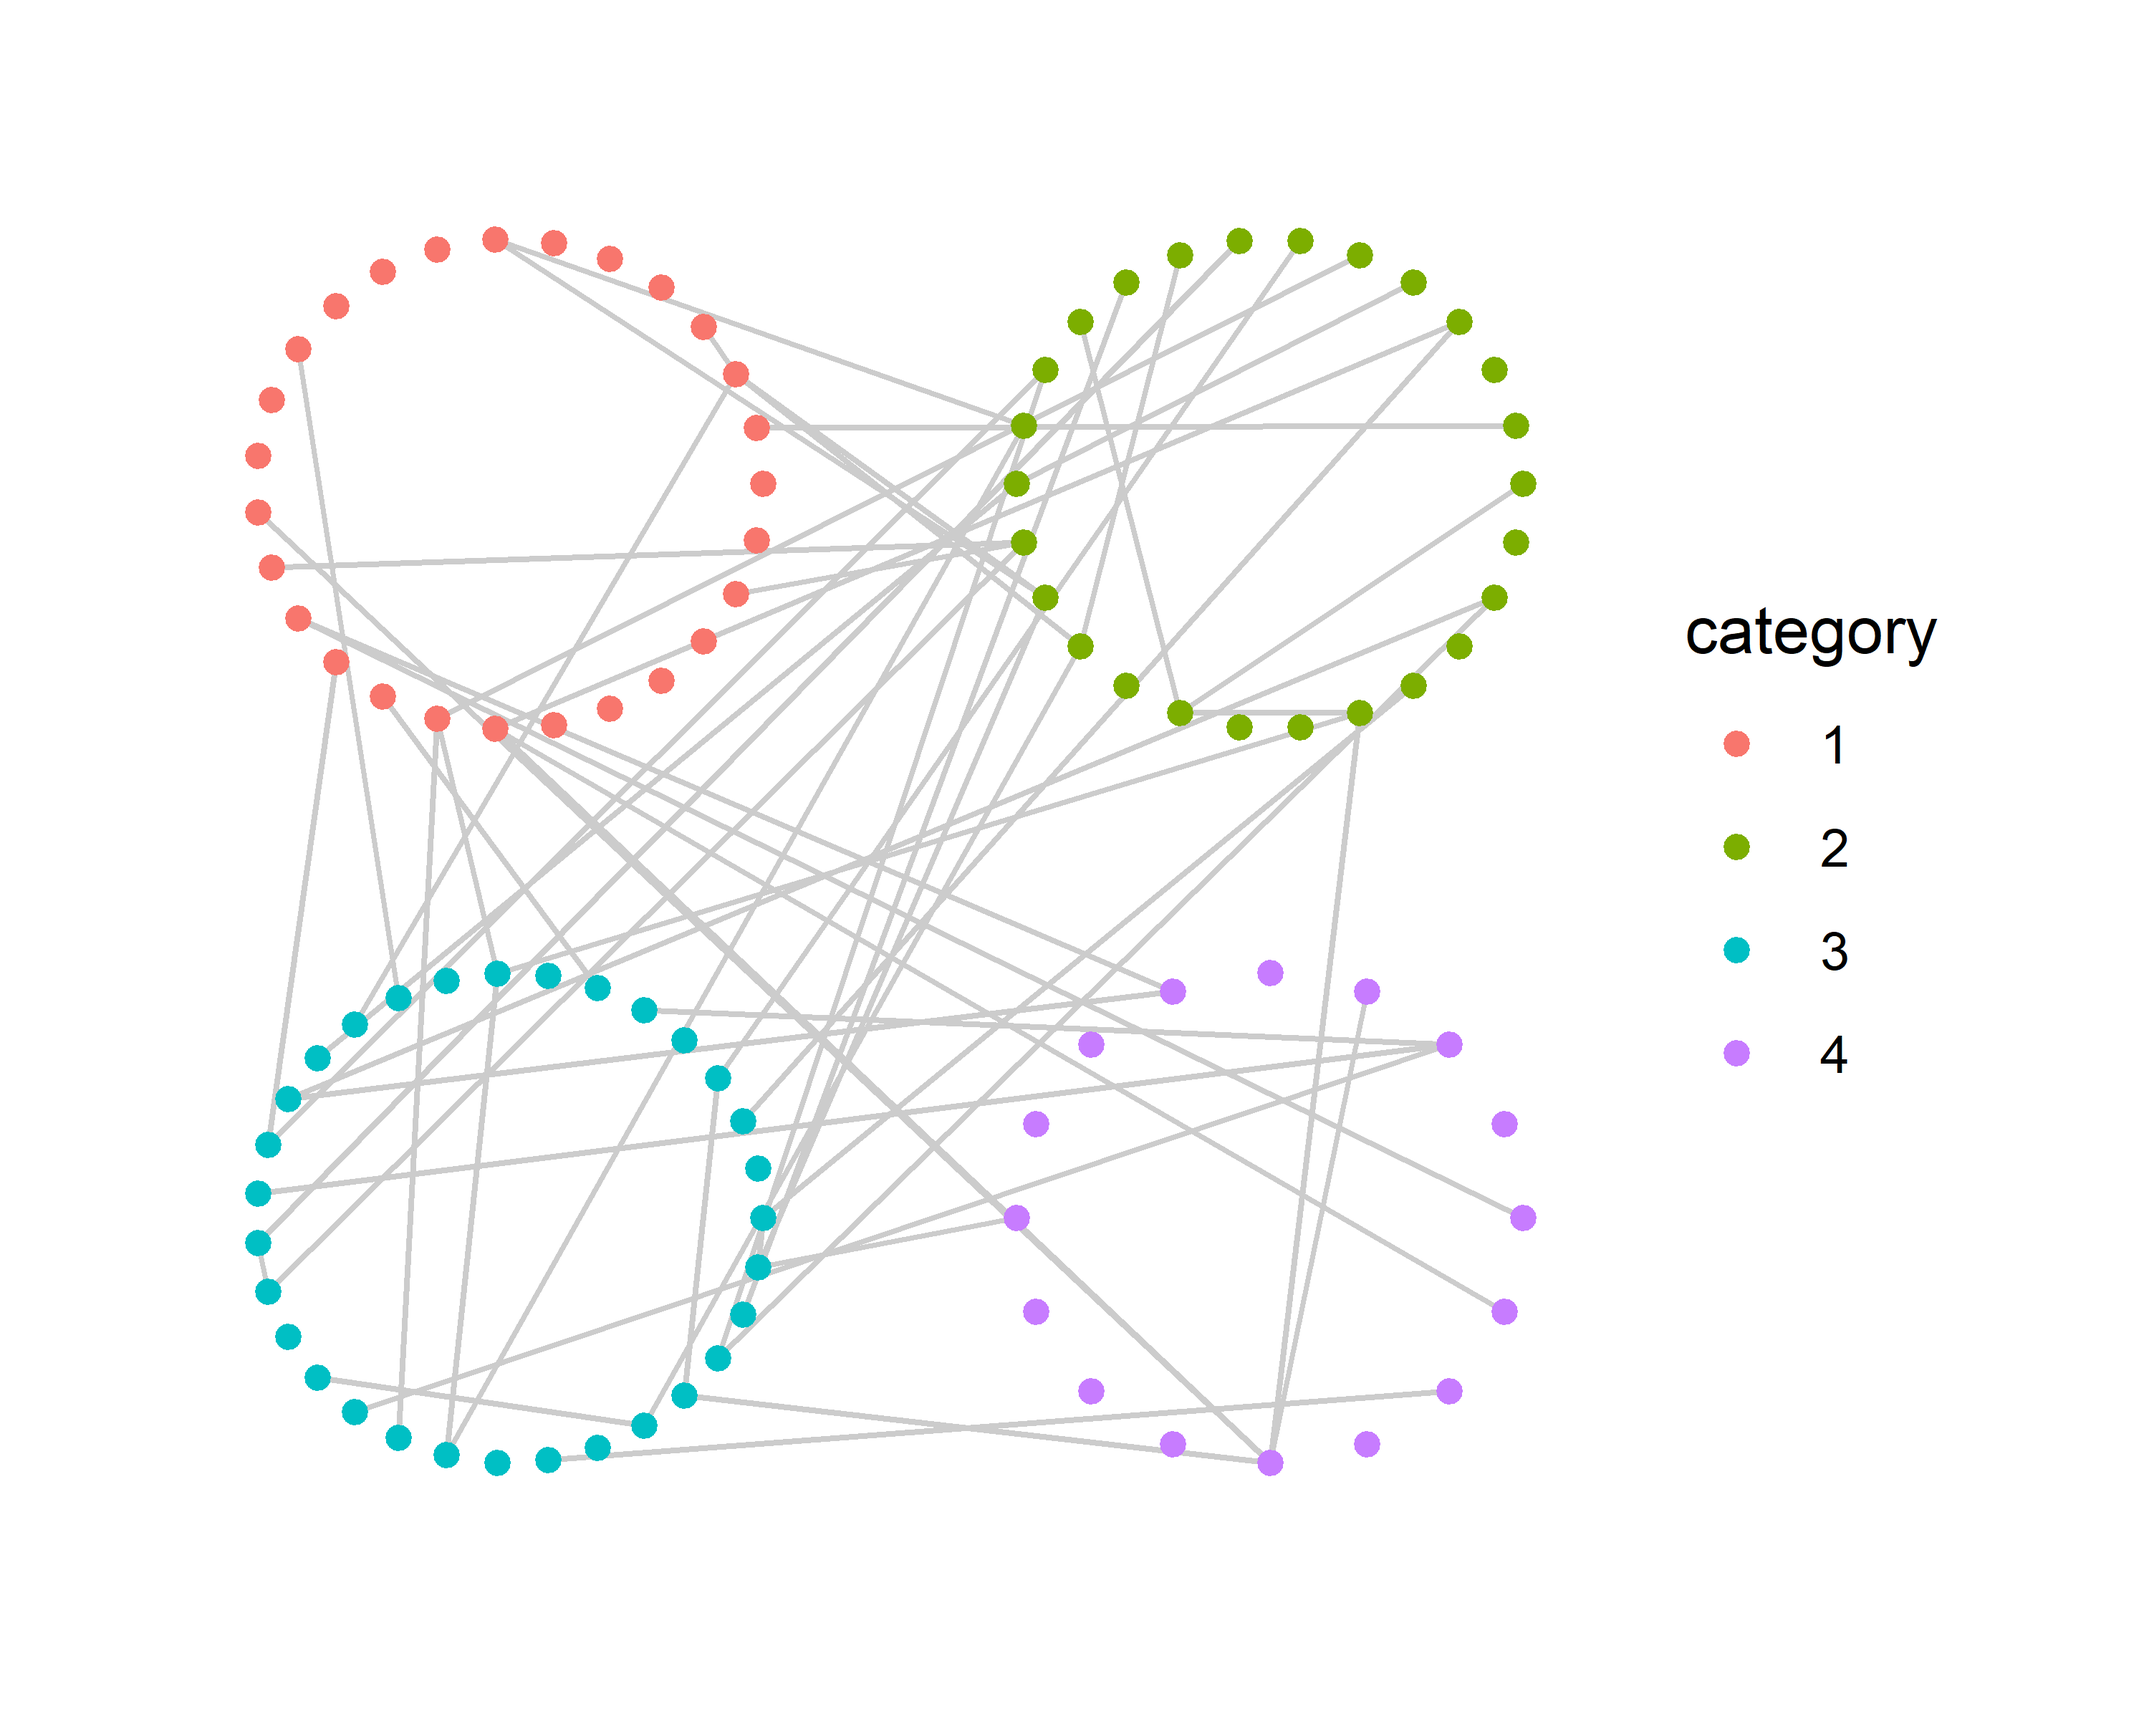
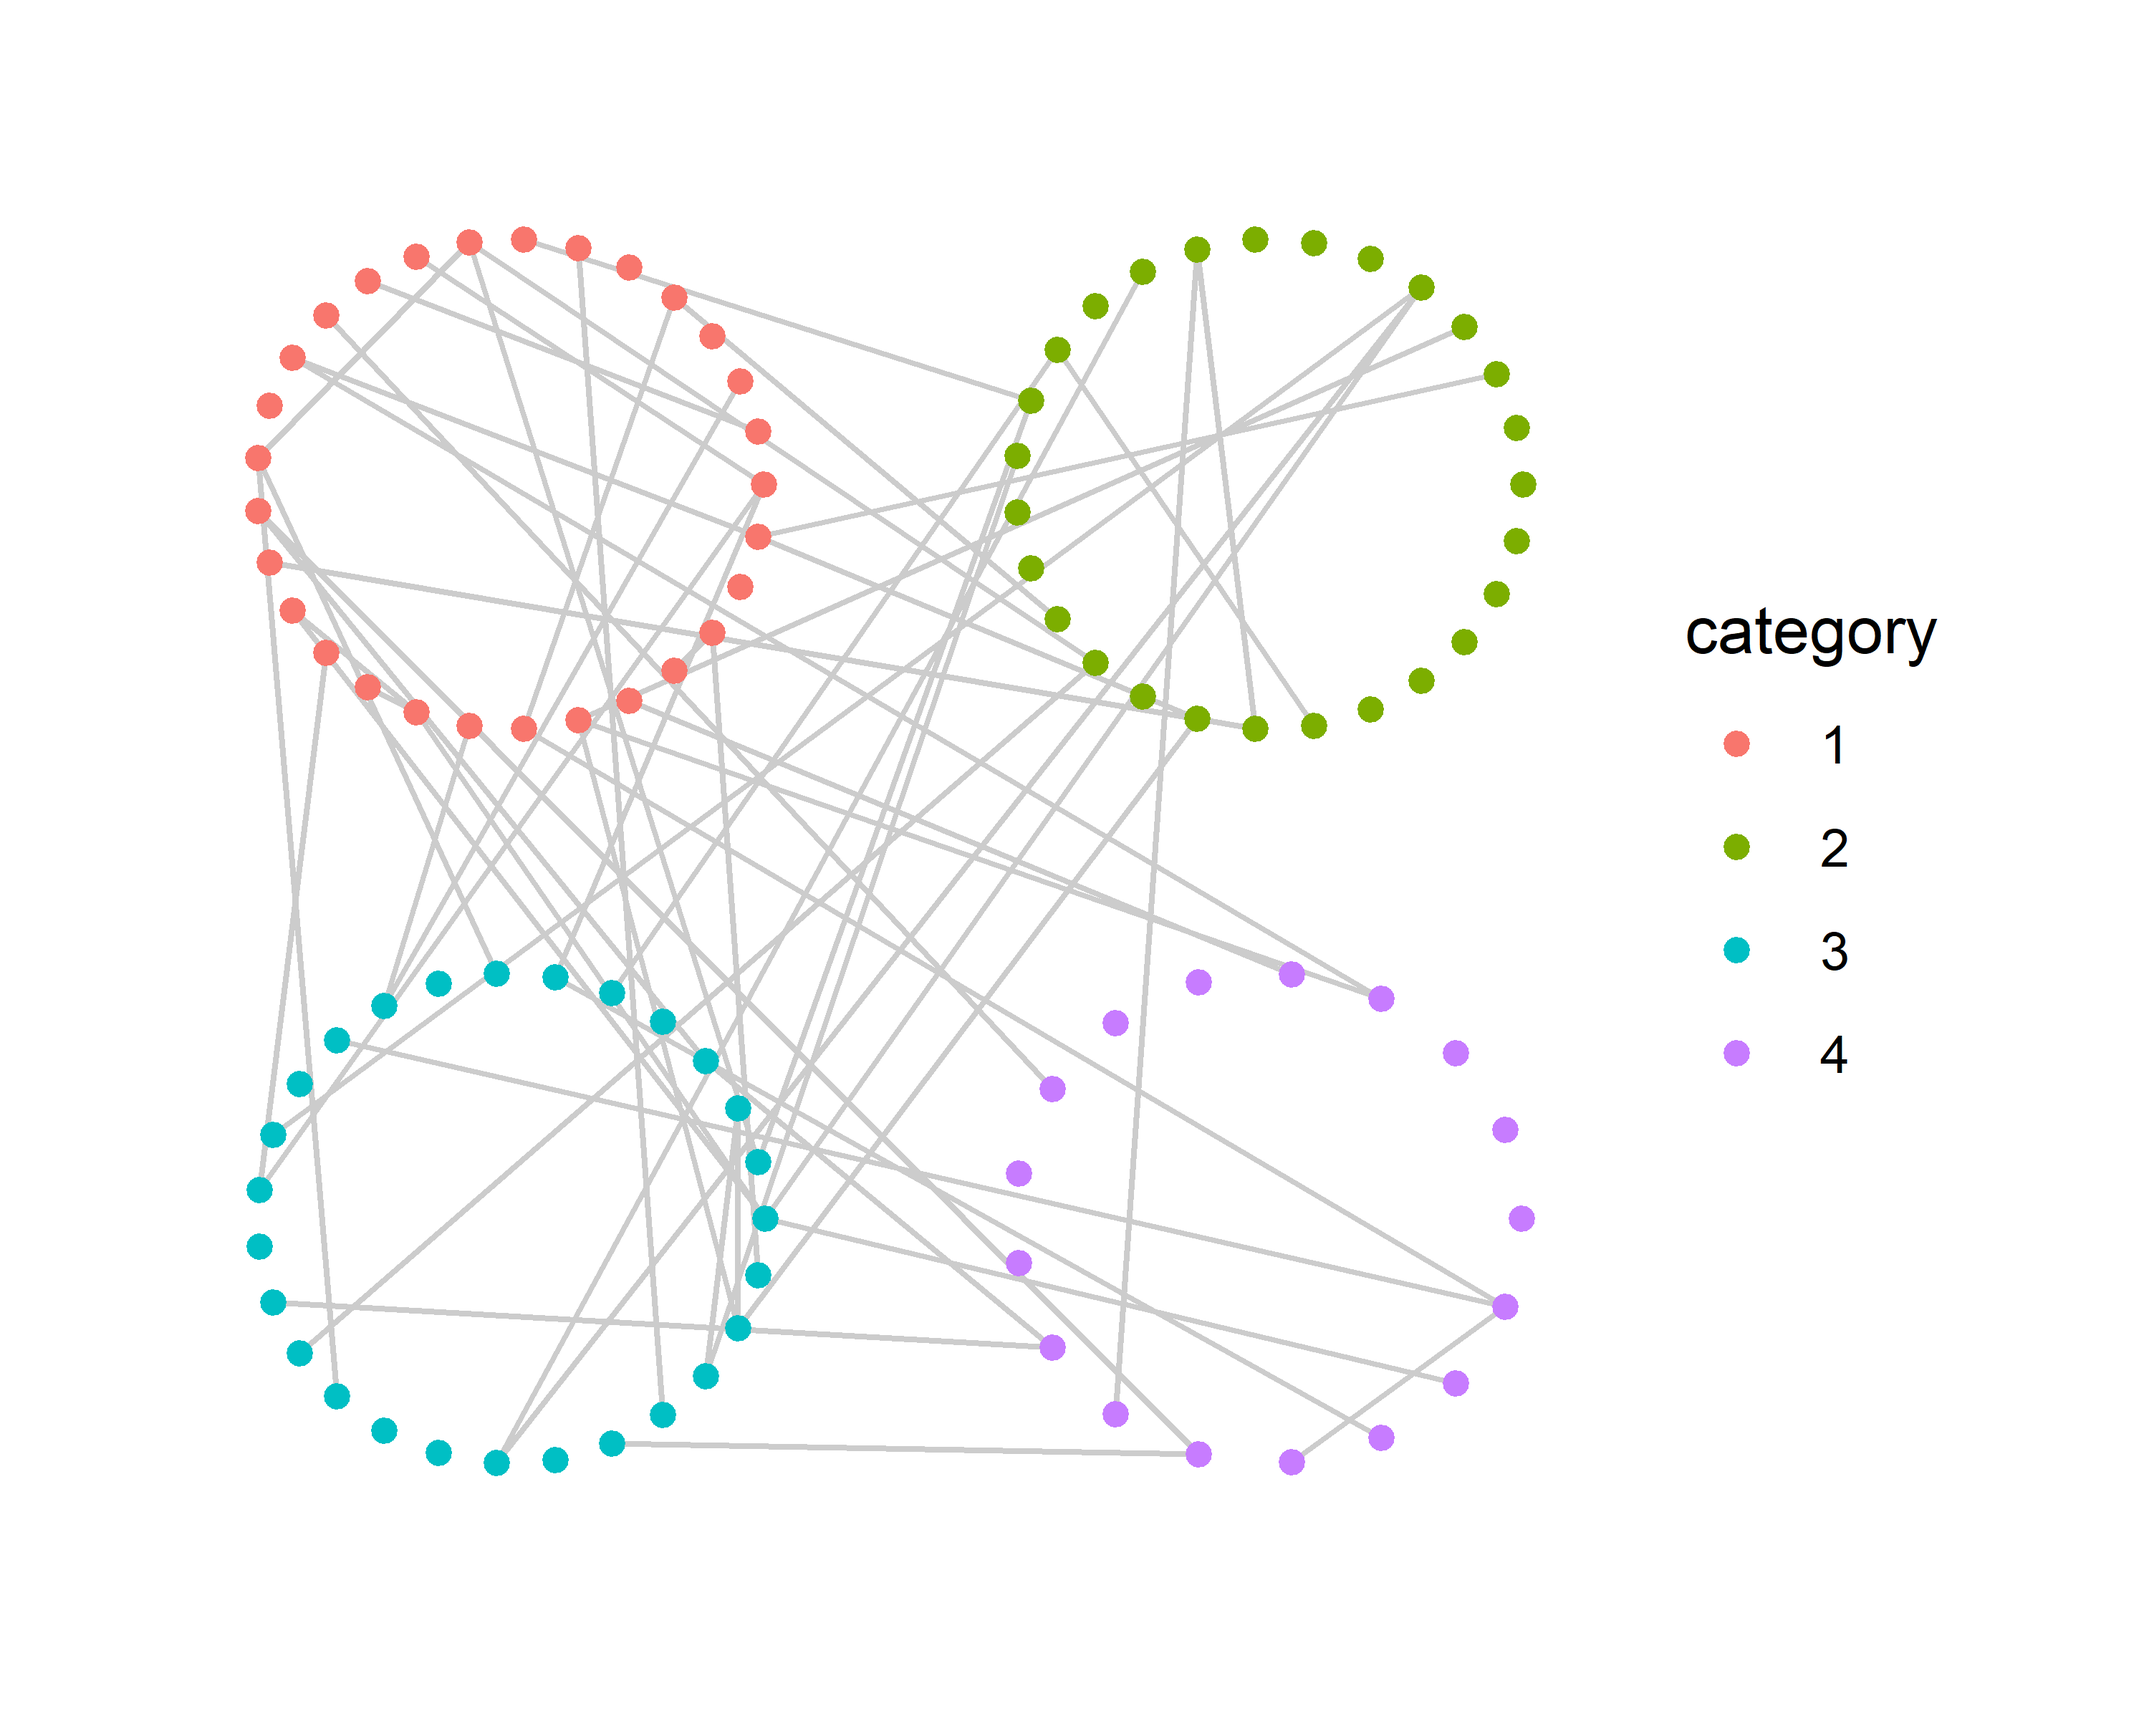
Update README
add another example

Changed region(s): [[0.093, 0.125, 0.713, 0.875], [0.682, 0.75, 0.713, 0.7812]]

diff --git a/README.md b/README.md
@@ -3,7 +3,9 @@
 
 # clusterlayouts
 
-Graph layouts using cluster information.
+Graph layouts using cluster information. The function calculates a
+grouped layout based on the node attribute in `igraph` or `tbl_graph`
+object, while respecting the original edge attributes.
 
 ``` r
 ## Make an example graph and assign a random category
@@ -11,7 +13,7 @@ library(clusterlayouts)
 library(igraph)
 test <- igraph::random.graph.game(n=100, p=0.01)
 V(test)$category <- as.factor(sample(1:4, 100, replace=TRUE))
-lyt <- layout_cluster(test, "category")
+lyt <- clusterlayouts::layout_cluster(test, "category")
 ggraph(test, layout="manual", x=lyt$x, y=lyt$y)+
     geom_edge_link0(color="grey80")+
     geom_node_point(aes(color=category))+
@@ -25,7 +27,7 @@ ggraph(test, layout="manual", x=lyt$x, y=lyt$y)+
 test <- igraph::random.graph.game(n=500, p=0.001)
 panel <- c(2,3,5,6,6,3,2,2)
 V(test)$category <- as.factor(sample(1:sum(panel), 500, replace=TRUE))
-lyt <- layout_cluster(test, "category", per_row=panel, per_layout="drl")
+lyt <- clusterlayouts::layout_cluster(test, "category", per_row=panel, per_layout="drl")
 #> Overriding nrow option
 ggraph(test, layout="manual", x=lyt$x, y=lyt$y)+
     geom_edge_link0(color="grey80")+
@@ -38,3 +40,22 @@ ggraph(test, layout="manual", x=lyt$x, y=lyt$y)+
 ```
 
 <img src="man/figures/README-unnamed-chunk-2-1.png" width="3600" style="display: block; margin: auto;" />
+
+``` r
+## Can align based on the column
+test <- igraph::random.graph.game(n=500, p=0.001)
+panel <- c(2,3,5,6,6,3,2,2)
+V(test)$category <- as.factor(sample(1:sum(panel), 500, replace=TRUE))
+lyt <- clusterlayouts::layout_cluster_col(test, "category", per_col=panel)
+#> Overriding ncol option
+ggraph(test, layout="manual", x=lyt$x, y=lyt$y)+
+    geom_edge_link0(color="grey80")+
+    geom_node_point(aes(color=category))+
+    ggfx::with_outer_glow(
+        geom_node_point(aes(color=category, filter=category==5)),
+        colour="gold", expand=10
+    )+
+    theme_graph()
+```
+
+<img src="man/figures/README-unnamed-chunk-3-1.png" width="3600" style="display: block; margin: auto;" />
